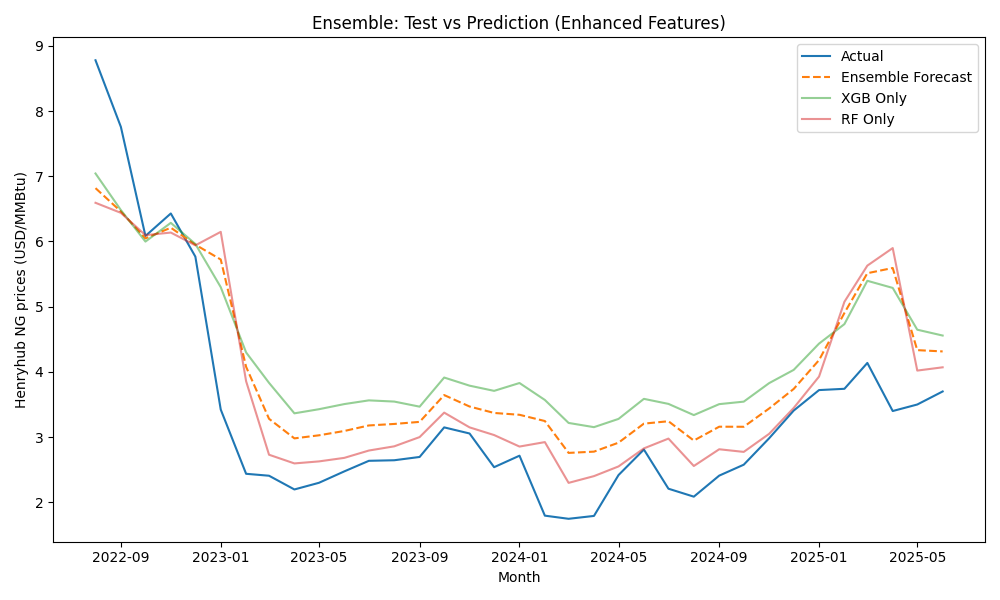
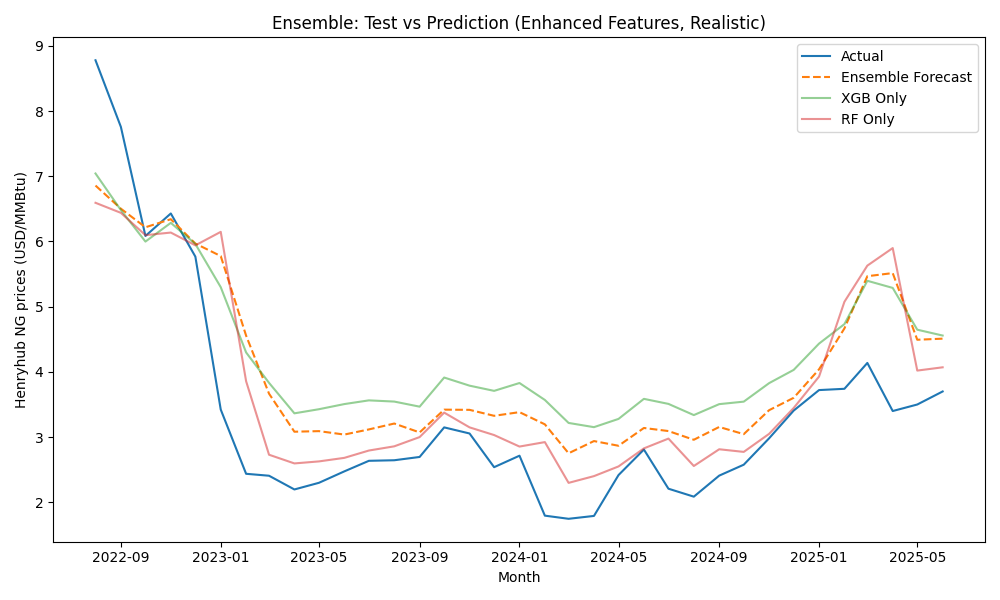
Add post-processing for realistic price bounds and fluctuations

diff --git a/train_and_forecast.py b/train_and_forecast.py
@@ -128,8 +128,24 @@ rf_pred = rf_model.predict(X_test_scaled)
 
 # Ensemble: average predictions
 ensemble_pred = (xgb_pred + rf_pred) / 2
-# Post-processing: apply a floor (e.g., minimum price = 2.5)
-ensemble_pred = np.maximum(ensemble_pred, 2.5)
+
+# Post-processing: enforce realistic bounds and fluctuations
+min_price = 2.5  # Set a realistic minimum price
+max_price = 8.0  # Set a realistic maximum price (adjust as needed)
+window = 3  # Moving average window for smoothing
+
+# Clamp to min/max
+ensemble_pred = np.clip(ensemble_pred, min_price, max_price)
+
+# Blend with moving average for stability
+ensemble_pred_ma = pd.Series(ensemble_pred).rolling(window, min_periods=1).mean().values
+ensemble_pred = 0.7 * ensemble_pred + 0.3 * ensemble_pred_ma
+
+# Add small random noise for plausible fluctuation
+np.random.seed(42)
+noise = np.random.normal(0, 0.08, size=len(ensemble_pred))  # Adjust stddev for more/less fluctuation
+ensemble_pred = ensemble_pred + noise
+ensemble_pred = np.clip(ensemble_pred, min_price, max_price)
 
 # Save results
 results = pd.DataFrame({'Month': y_test.index, 'Actual': y_test.values, 'XGB': xgb_pred, 'RF': rf_pred, 'Ensemble': ensemble_pred})
@@ -140,7 +156,7 @@ plt.plot(y_test.index, ensemble_pred, label='Ensemble Forecast', linestyle='--')
 plt.plot(y_test.index, xgb_pred, label='XGB Only', alpha=0.5)
 plt.plot(y_test.index, rf_pred, label='RF Only', alpha=0.5)
 plt.legend()
-plt.title('Ensemble: Test vs Prediction (Enhanced Features)')
+plt.title('Ensemble: Test vs Prediction (Enhanced Features, Realistic)')
 plt.xlabel('Month')
 plt.ylabel(target_col)
 plt.tight_layout()
